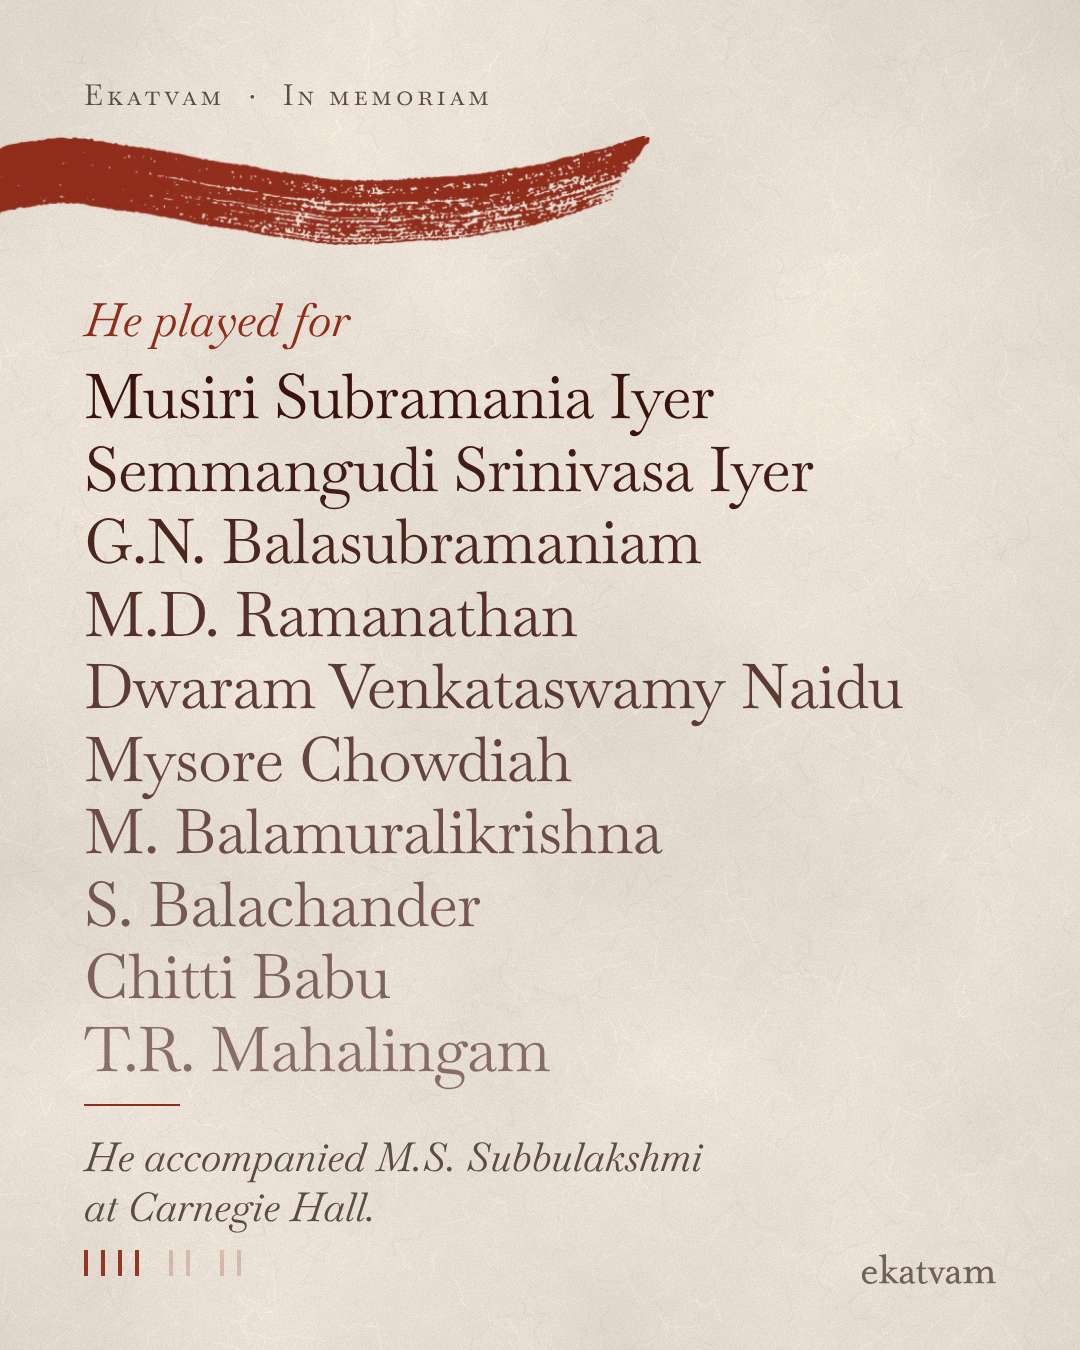
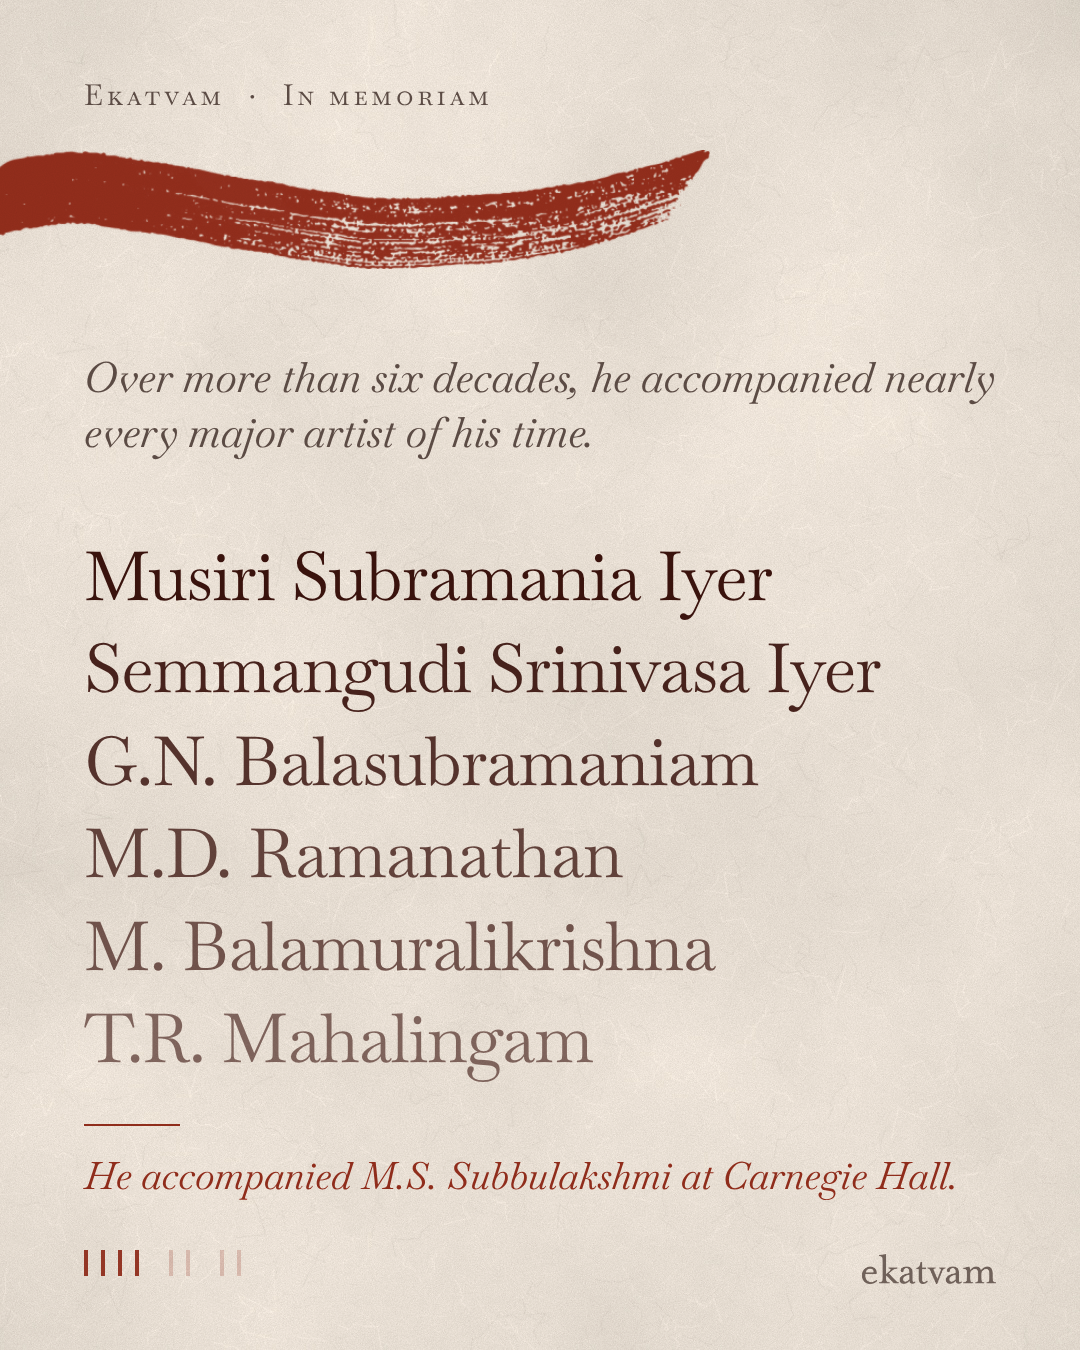
Carousel v02: declutter roll-call slide, ease honours slide
Claude-Session: https://claude.ai/code/session_01QTduMXH4PQaPUWUfw3WSmd

diff --git a/EKATVAM/2026-10_Guruvayur_Dorai_Tribute_Instagram_Carousel/04_WORKING/editable_files/carousel_v02.html b/EKATVAM/2026-10_Guruvayur_Dorai_Tribute_Instagram_Carousel/04_WORKING/editable_files/carousel_v02.html
@@ -25,7 +25,7 @@ h1,h2,.q{font-weight:400;letter-spacing:-.018em}
 .row{display:flex;gap:34px;padding:25px 0;border-top:1.5px solid rgba(94,78,71,.30)}.row:last-child{border-bottom:1.5px solid rgba(94,78,71,.30)}
 .garnet .row{border-color:rgba(240,232,220,.26)}
 .k{width:150px;flex:none;font-size:36px;color:var(--red);padding-top:5px}.garnet .k{color:var(--clay)}
-.v{font-size:42px;line-height:1.2}.led3 .row{padding:19px 0}.led3 .v{font-size:39px;line-height:1.18}.led7 .row{padding:20px 0}.led7 .v{font-size:39px;line-height:1.18}
+.v{font-size:42px;line-height:1.2}.led3 .row{padding:19px 0}.led3 .v{font-size:39px;line-height:1.18}.led6 .row{padding:20px 0}.led6 .v{font-size:40px;line-height:1.18}.led7 .row{padding:20px 0}.led7 .v{font-size:39px;line-height:1.18}
 /* 1 */
 .p1{position:absolute;inset:0;background:url("../../03_SOURCE_ASSETS/photography/GuruvayurDorai_ink_on_garnet.jpg") -150px -44px/1360px 1496px no-repeat;-webkit-mask-image:linear-gradient(180deg,#000 0,#000 50%,rgba(0,0,0,.6) 62%,transparent 79%);mask-image:linear-gradient(180deg,#000 0,#000 50%,rgba(0,0,0,.6) 62%,transparent 79%)}
 /* 5 */
@@ -77,14 +77,14 @@ function ticks(n){return '<div class="ticks">'+[1,2,3,4,5,6,7,8].map(i=>'<i clas
 <!-- 4 ROLL CALL -->
 <section class="slide ivory" id="s4">
  <div class="kicker sc">Ekatvam &nbsp;·&nbsp; In memoriam</div>
- <img class="stroke" src="../../02_BRAND/logos/stroke4_red.png" style="left:-50px;top:136px;width:700px" alt="">
- <div class="abs" style="left:var(--m);top:290px;font-style:italic;font-size:46px;color:var(--red)">He played for</div>
- <div class="abs names" style="left:var(--m);right:var(--m);top:360px">
-  <div style="opacity:1">Musiri Subramania Iyer</div><div style="opacity:.95">Semmangudi Srinivasa Iyer</div><div style="opacity:.9">G.N. Balasubramaniam</div><div style="opacity:.85">M.D. Ramanathan</div><div style="opacity:.8">Dwaram Venkataswamy Naidu</div><div style="opacity:.75">Mysore Chowdiah</div><div style="opacity:.7">M. Balamuralikrishna</div><div style="opacity:.65">S. Balachander</div><div style="opacity:.6">Chitti Babu</div><div style="opacity:.55">T.R. Mahalingam</div>
+ <img class="stroke" src="../../02_BRAND/logos/stroke4_red.png" style="left:-50px;top:150px;width:760px" alt="">
+ <div class="abs" style="left:var(--m);right:var(--m);top:350px;font-style:italic;font-size:42px;line-height:1.3;color:var(--umber)">Over more than six decades, he accompanied nearly every major artist of his time.</div>
+ <div class="abs names" style="left:var(--m);right:var(--m);top:530px">
+  <div style="opacity:1">Musiri Subramania Iyer</div><div style="opacity:.92">Semmangudi Srinivasa Iyer</div><div style="opacity:.84">G.N. Balasubramaniam</div><div style="opacity:.76">M.D. Ramanathan</div><div style="opacity:.68">M. Balamuralikrishna</div><div style="opacity:.6">T.R. Mahalingam</div>
  </div>
- <style>.names div{font-size:62px;line-height:1.17;letter-spacing:-.012em}</style>
- <div class="abs" style="left:var(--m);right:var(--m);top:1104px;height:2px;background:var(--red);width:96px"></div>
- <div class="abs" style="left:var(--m);right:var(--m);top:1132px;font-size:40px;line-height:1.25;font-style:italic;color:var(--umber)">He accompanied M.S. Subbulakshmi<br>at Carnegie Hall.</div>
+ <style>.names div{font-size:68px;line-height:1.36;letter-spacing:-.014em}</style>
+ <div class="abs" style="left:var(--m);top:1124px;height:2px;background:var(--red);width:96px"></div>
+ <div class="abs" style="left:var(--m);right:var(--m);top:1152px;font-size:38px;line-height:1.25;font-style:italic;color:var(--red)">He accompanied M.S. Subbulakshmi at Carnegie Hall.</div>
  <script>document.write(ticks(4))</script><img class="wm" src="../../02_BRAND/logos/Ekatvam_wordmark_umber.png" alt="ekatvam">
  <div class="grain"></div>
 </section>
@@ -105,14 +105,14 @@ function ticks(n){return '<div class="ticks">'+[1,2,3,4,5,6,7,8].map(i=>'<i clas
  <div class="kicker sc">Ekatvam &nbsp;·&nbsp; In memoriam</div>
  <img class="stroke" src="../../02_BRAND/logos/stroke6_red.png" style="left:-50px;top:150px;width:760px" alt="">
  <h2 class="abs" style="left:var(--m);top:336px;font-size:88px;line-height:1.02">The honours<br><i style="color:var(--red)">came in their time</i></h2>
- <div class="abs" style="left:var(--m);right:var(--m);top:590px">
+ <div class="abs led6" style="left:var(--m);right:var(--m);top:566px">
   <div class="row"><div class="sc k">1990</div><div class="v">Kalaimamani</div></div>
   <div class="row"><div class="sc k">1996</div><div class="v">Sangeet Natak Akademi Award</div></div>
   <div class="row"><div class="sc k">2003</div><div class="v">Sangeetha Kalasikhamani, Indian Fine Arts Society</div></div>
   <div class="row"><div class="sc k">2011</div><div class="v">Tagore Ratna, Sangeet Natak Akademi</div></div>
   <div class="row"><div class="sc k">2025</div><div class="v" style="color:var(--red)">Padma Shri</div></div>
  </div>
- <div class="abs" style="left:var(--m);right:var(--m);top:1158px;font-size:37px;font-style:italic;line-height:1.28;color:var(--umber)">The nation’s recognition came late, but it came while he could still receive it.</div>
+ <div class="abs" style="left:var(--m);right:var(--m);top:1118px;font-size:36px;font-style:italic;line-height:1.28;color:var(--umber)">The nation’s recognition came late, but it came while he could still receive it.</div>
  <script>document.write(ticks(6))</script><img class="wm" src="../../02_BRAND/logos/Ekatvam_wordmark_umber.png" alt="ekatvam">
  <div class="grain"></div>
 </section>

diff --git a/EKATVAM/2026-10_Guruvayur_Dorai_Tribute_Instagram_Carousel/README.md b/EKATVAM/2026-10_Guruvayur_Dorai_Tribute_Instagram_Carousel/README.md
@@ -15,7 +15,7 @@ Supplied photo has a saturated pink backdrop. It was converted to monochrome and
 ## Copy edits (compressions of the supplied newsletter)
 - v02 structure: eight slides, one per beat of Adi tala (marked by the eight ticks at the foot of each page, grouped 4+2+2). The six brushstrokes of the logo arrive one per slide (1 to 6) and the full logo closes slide 8. The two lines about anticipation and the gumki now share slide 5.
 - Slide 3: "Born in a house on North Mada Street, Guruvayur, close to the temple" compresses the birth paragraph. "Polio. His father saw a way forward, not a limit" compresses "His father did not see the illness as a limit ... He saw a way forward." "Moves in with his guru ... for nearly nine years" compresses the 1953 sentence.
-- Slide 4: names verbatim, in the newsletter's order.
+- Slide 4: the opening line is verbatim from the newsletter ("Over more than six decades, he accompanied nearly every major artist of his time."). Six of the ten names are shown to keep the page uncluttered, verbatim and in the newsletter's order: Musiri Subramania Iyer, Semmangudi Srinivasa Iyer, G.N. Balasubramaniam, M.D. Ramanathan, M. Balamuralikrishna, T.R. Mahalingam. Left out for space: Dwaram Venkataswamy Naidu, Mysore Chowdiah, S. Balachander, Chitti Babu. Confirm with Rajmohan, or put the full list in the caption.
 - Slide 6: "The honours came in their time" is a heading added by design; honours and years verbatim.
 - Slide 7: "Teaching at the University of Washington, Seattle" (1978), "Published Mridanga Nada Manjari, so a guru's knowledge would outlive the guru" (2001), Trust awards compressed.
 

diff --git a/EKATVAM/2026-10_Guruvayur_Dorai_Tribute_Instagram_Carousel/CHANGELOG.md b/EKATVAM/2026-10_Guruvayur_Dorai_Tribute_Instagram_Carousel/CHANGELOG.md
@@ -4,3 +4,6 @@
 
 ## v02
 Rebuilt after feedback that v01 looked flat and below the standard of the feed. Warm ivory paper texture, red-ink duotone portrait, garnet grounds, larger type, eight-beat tala device, one logo stroke per slide assembling into the full logo. 9 slides reduced to 8. v01 archived.
+
+## v02 revision 2
+Slide 4 simplified (six names, bigger, more air) after feedback that it was congested. Slide 6 bottom spacing eased.
